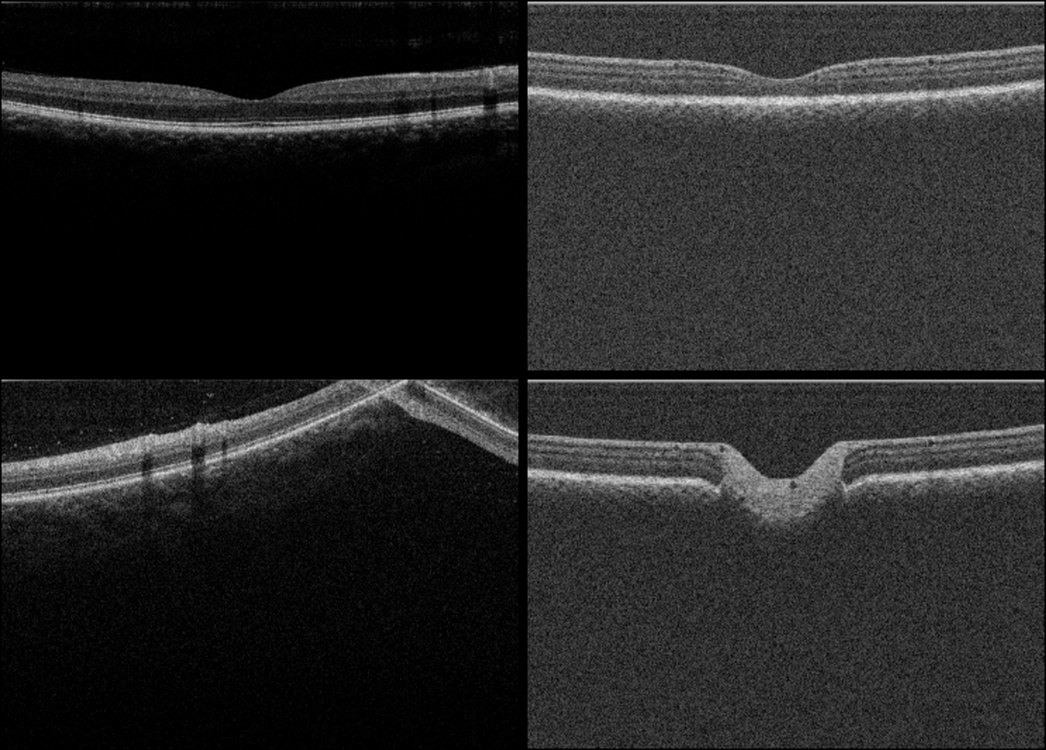
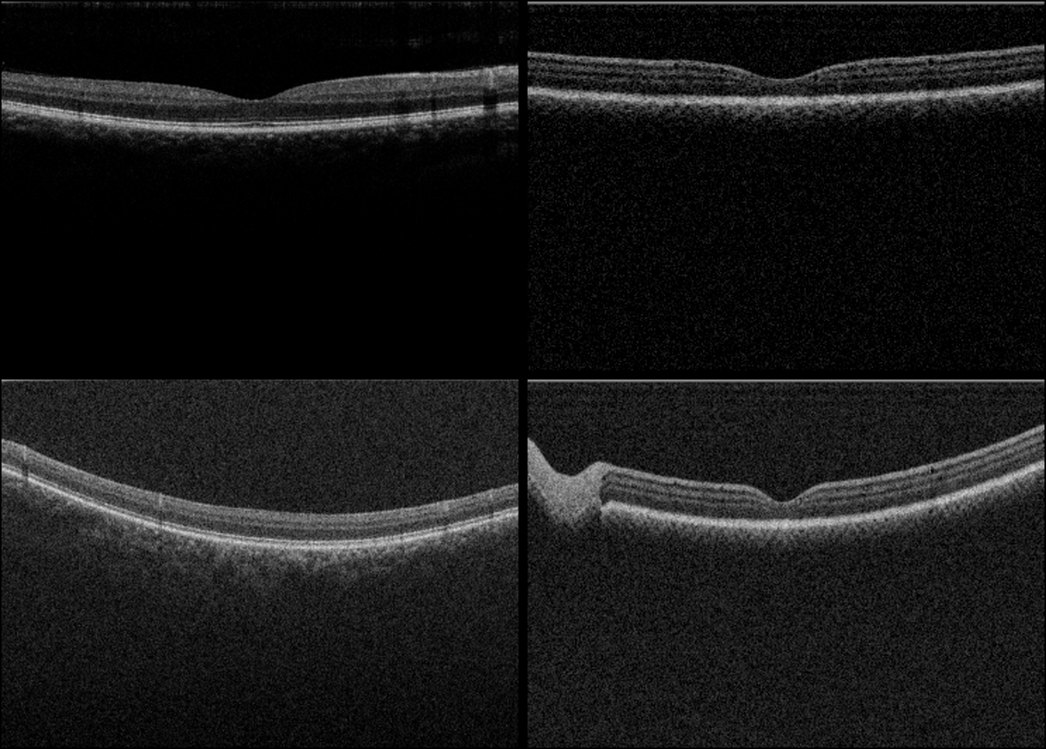
v0.21: portal power overlays out of the filtered menu bar, retimed tracking sequence, matched simulator contrast, text fitting

diff --git a/app/components/ProjectsWindow.tsx b/app/components/ProjectsWindow.tsx
@@ -58,7 +58,7 @@ function DenoiseHero() {
 }
 
 /* The tracking hero.
-   Twenty-four consecutive frames from one acquisition, each a composite of
+   Thirty consecutive frames from one acquisition, each a composite of
    the surgical microscope view, the en face reflectometry frame and the
    tracked OCT volume, recomposed side by side from the source video. They
    are temporally correlated by construction: every column of the sprite is
@@ -66,32 +66,33 @@ function DenoiseHero() {
    microscope is a top-down 2D view and cannot show what the instrument is
    doing to the tissue underneath; the volume can.
 
-   Twenty-four frames sampled over an eight-second window: ten frames spread
-   across the whole clip read as a slideshow, because smoothness comes from
-   how little moves between frames, not from playback rate alone.
+   Thirty frames sampled from a 2.5s window and played back over 2.5s, so the
+   motion runs at real speed at 12fps. Only one of the two volume viewpoints
+   is kept: the second was another angle on the same instant, and dropping it
+   gives the microscope and en face panels the width they need.
 
-   Stepped with a transform on a 2400%-wide strip rather than an animated
+   Stepped with a transform on a 3000%-wide strip rather than an animated
    image format, so prefers-reduced-motion can actually stop it. */
 function TrackingHero() {
   return (
     <figure className="denoise-figure">
-      <div className="seq" aria-label="Twenty-four consecutive frames showing the microscope view, the en face frame and the tracked OCT volume at the same instants">
+      <div className="seq" aria-label="Thirty consecutive frames showing the microscope view, the en face frame and the tracked OCT volume at the same instants">
         {/* eslint-disable-next-line @next/next/no-img-element */}
         <img
           className="seq-strip"
           src="/track-seq.webp"
-          alt="Twenty-four consecutive time points of an instrument at the eye surface, each showing the surgical microscope view, the en face reflectometry frame, and the tracked OCT volume"
-          width={14136}
+          alt="Thirty consecutive time points of an instrument at the eye surface, each showing the surgical microscope view, the en face reflectometry frame, and the tracked OCT volume"
+          width={15810}
           height={300}
         />
       </div>
       <div className="seq-labels" aria-hidden="true">
         <span style={{ flex: "300 1 0" }}>microscope</span>
         <span style={{ flex: "77 1 0" }}>en face</span>
-        <span className="seq-label-accent" style={{ flex: "212 1 0" }}>tracked OCT volume</span>
+        <span className="seq-label-accent" style={{ flex: "150 1 0" }}>tracked OCT volume</span>
       </div>
       <figcaption>
-        Twenty-four consecutive time points from one acquisition, each frame the same
+        Thirty consecutive time points from one acquisition, each frame the same
         instant three ways, so the panels are correlated rather than merely adjacent.
         The microscope view is top-down and 2D and cannot show what the instrument is
         doing below the surface, which is what the <strong>tracked volume</strong>
@@ -159,7 +160,13 @@ function SpectralHero() {
 /* The simulator's own validation: real device B-scans beside simulated ones
    at matched display contrast. This is the only claim that matters for a
    forward model, so it leads the project rather than sitting under the
-   schematic. Two anatomies, because matching one is luck. */
+   schematic. Two fields of view, because matching one is luck.
+
+   The simulated panels are put through a display window matched to the
+   device's. Raw, the sim reads as noise-dominated, but that is display
+   processing rather than physics: measured, the sim background sat at 40-55
+   where the device sat at 0-24. The optic disc row was dropped because the
+   real frame in it wraps at DC. */
 function SimulatorHero() {
   return (
     <figure className="denoise-figure">
@@ -171,19 +178,21 @@ function SimulatorHero() {
         {/* eslint-disable-next-line @next/next/no-img-element */}
         <img
           src="/sim-real.jpg"
-          alt="Two rows comparing real device B-scans on the left with simulated B-scans on the right, a macula and an optic disc, at matched display contrast."
+          alt="Two rows comparing real device B-scans on the left with simulated B-scans on the right, a 6 mm macula and a 12 by 9 mm wide field, at matched display contrast."
           width={1046}
-          height={750}
+          height={749}
           loading="lazy"
           decoding="async"
         />
       </div>
       <figcaption>
-        Real device acquisitions beside synthetic ones at{" "}
-        <strong>matched display contrast</strong>, macula above and optic disc
-        below. Layer ordering, speckle statistics and depth falloff come out of the
-        forward model rather than being tuned to match, which is the only test a
-        physics simulator can meaningfully pass.
+        Real device acquisitions beside synthetic ones, a 6 mm macula above and a
+        12x9 mm wide field below. The two pipelines apply different display
+        processing, so the simulated panels are shown through a{" "}
+        <strong>display window matched to the device&rsquo;s</strong>; the underlying
+        layer ordering, speckle statistics and depth falloff come out of the forward
+        model rather than being tuned to match, which is the only test a physics
+        simulator can meaningfully pass.
       </figcaption>
     </figure>
   );

diff --git a/app/components/PowerMenu.tsx b/app/components/PowerMenu.tsx
@@ -1,6 +1,7 @@
 "use client";
 
 import { useEffect, useRef, useState } from "react";
+import { createPortal } from "react-dom";
 
 /**
  * PowerMenu: the power glyph in the menu bar, made to mean something.
@@ -13,6 +14,21 @@ import { useEffect, useRef, useState } from "react";
  * button, which is exactly the deal a real machine offers.
  *
  * Escape and a click outside both close the menu; sleep wakes on any input.
+ *
+ * ⚠ The two full-screen overlays are rendered through a PORTAL to
+ * document.body, and that is load-bearing rather than tidiness. `.menubar`
+ * carries `backdrop-filter` for its glass effect, and a filtered element
+ * becomes the containing block for `position: fixed` DESCENDANTS. Rendered
+ * in place, `inset: 0` therefore resolved against a 30px-tall bar: sleep
+ * showed as a black strip at the top of the screen and shut down put its
+ * power button up there with it. Portalling to the body means no ancestor
+ * can capture them, whatever styles it grows later.
+ *
+ * Headless Chromium does NOT reproduce this, because it skips
+ * backdrop-filter compositing and so never creates the containing block.
+ * Two rounds of automated checks passed while a real phone kept failing.
+ * Measure fixed overlays against the VIEWPORT, and do not trust headless
+ * for anything that depends on filters or compositing.
  */
 
 type Mode = null | "sleep" | "off";
@@ -20,7 +36,10 @@ type Mode = null | "sleep" | "off";
 export default function PowerMenu() {
   const [open, setOpen] = useState(false);
   const [mode, setMode] = useState<Mode>(null);
+  const [mounted, setMounted] = useState(false);
   const wrap = useRef<HTMLDivElement | null>(null);
+
+  useEffect(() => setMounted(true), []);
 
   /* Close on outside click or Escape, the two things a menu must honour.
      Armed on a delay for the same reason as the sleep veil: the tap that
@@ -128,28 +147,32 @@ export default function PowerMenu() {
         )}
       </div>
 
-      {mode === "sleep" && (
-        <div
-          className="sleep-veil"
-          role="presentation"
-          onPointerUp={() => setMode(null)}
-        >
-          <p>Sleeping. Tap anywhere to wake.</p>
-        </div>
-      )}
+      {mounted && mode === "sleep" &&
+        createPortal(
+          <div
+            className="sleep-veil"
+            role="presentation"
+            onPointerUp={() => setMode(null)}
+          >
+            <p>Sleeping. Tap anywhere to wake.</p>
+          </div>,
+          document.body
+        )}
 
-      {mode === "off" && (
-        <div className="power-off" role="dialog" aria-label="Powered off">
-          <p className="power-off-line">It is now safe to close this tab.</p>
-          <button className="power-on" onPointerUp={powerOn} onClick={powerOn} aria-label="Power on">
-            <svg viewBox="0 0 24 24" fill="none" stroke="currentColor" strokeWidth="2.2" strokeLinecap="round">
-              <path d="M12 3v8" />
-              <path d="M6.2 6.2a8.2 8.2 0 1 0 11.6 0" />
-            </svg>
-          </button>
-          <p className="power-off-hint">power on</p>
-        </div>
-      )}
+      {mounted && mode === "off" &&
+        createPortal(
+          <div className="power-off" role="dialog" aria-label="Powered off">
+            <p className="power-off-line">It is now safe to close this tab.</p>
+            <button className="power-on" onPointerUp={powerOn} onClick={powerOn} aria-label="Power on">
+              <svg viewBox="0 0 24 24" fill="none" stroke="currentColor" strokeWidth="2.2" strokeLinecap="round">
+                <path d="M12 3v8" />
+                <path d="M6.2 6.2a8.2 8.2 0 1 0 11.6 0" />
+              </svg>
+            </button>
+            <p className="power-off-hint">power on</p>
+          </div>,
+          document.body
+        )}
     </>
   );
 }

diff --git a/app/components/SimulatorSchematic.tsx b/app/components/SimulatorSchematic.tsx
@@ -146,12 +146,18 @@ function ForwardPanel() {
 
 /* ---------- panel 2: what the physics buys you ---------- */
 
+/* Values are kept short enough to fit CHIP_W minus its padding. Measured, not
+   eyeballed: three of the original strings ran past the chip edge, the worst by
+   16 units. If you lengthen one, re-measure the text bbox against the rect. */
+const CHIP_W = 116;
+const CHIP_GAP = 8;
+
 const EFFECTS = [
-  { k: "source", v: "bandwidth sets axial resolution" },
-  { k: "falloff", v: "sensitivity roll-off with depth" },
-  { k: "dispersion", v: "axial stretch, signed chirp" },
-  { k: "T_int", v: "SNR up, fringe washout up" },
-  { k: "motion", v: "drift, pulse, microsaccade" },
+  { k: "source", v: "sets axial resolution" },
+  { k: "falloff", v: "roll-off with depth" },
+  { k: "dispersion", v: "stretch, signed chirp" },
+  { k: "T_int", v: "SNR up, washout up" },
+  { k: "motion", v: "drift, pulse, saccade" },
   { k: "noise", v: "shot, RIN, read floor" },
 ];
 
@@ -166,11 +172,11 @@ function EffectsPanel() {
       {EFFECTS.map((e, i) => {
         const col = i % 3;
         const row = Math.floor(i / 3);
-        const x = 16 + col * 118;
+        const x = 16 + col * (CHIP_W + CHIP_GAP);
         const y = 20 + row * 40;
         return (
           <g key={e.k}>
-            <rect className="sim-chip" x={x} y={y} width={108} height={30} rx={4} />
+            <rect className="sim-chip" x={x} y={y} width={CHIP_W} height={30} rx={4} />
             <text className="sim-chip-k" x={x + 8} y={y + 13}>
               {e.k}
             </text>
@@ -182,9 +188,9 @@ function EffectsPanel() {
       })}
 
       {/* they all feed one model */}
-      <path className="sim-feed" d="M70 100 C70 118 200 118 200 124" />
-      <path className="sim-feed" d="M188 100 C188 116 200 118 200 124" />
-      <path className="sim-feed" d="M306 100 C306 118 200 118 200 124" />
+      <path className="sim-feed" d="M74 100 C74 118 200 118 200 124" />
+      <path className="sim-feed" d="M198 100 C198 116 200 118 200 124" />
+      <path className="sim-feed" d="M322 100 C322 118 200 118 200 124" />
 
       <rect className="sim-core" x={126} y={124} width={148} height={30} rx={5} />
       <text className="sim-core-t" x={200} y={143} textAnchor="middle">

diff --git a/app/globals.css b/app/globals.css
@@ -2624,6 +2624,8 @@ html.booted .boot-overlay {
 .sleep-veil {
   position: fixed;
   inset: 0;
+  width: 100vw;
+  height: 100dvh;
   z-index: 900;
   display: flex;
   align-items: flex-end;
@@ -2644,6 +2646,8 @@ html.booted .boot-overlay {
 .power-off {
   position: fixed;
   inset: 0;
+  width: 100vw;
+  height: 100dvh;
   z-index: 1000;
   display: flex;
   flex-direction: column;
@@ -2723,25 +2727,31 @@ html.booted .boot-overlay {
 .seq {
   position: relative;
   width: 100%;
-  aspect-ratio: 589 / 300;
+  aspect-ratio: 527 / 300;
   border-radius: 10px;
   overflow: hidden;
   border: 1px solid var(--hairline);
   background: #080706;
 }
 
-/* Twenty-four frames side by side, so the strip is 2400% of the container and
-   one translateX(-100%) walks the loop. Stepping a transform rather than using
-   an animated image format is what lets prefers-reduced-motion stop it. */
+/* Thirty frames side by side, so the strip is 3000% of the container and one
+   translateX(-100%) walks the loop. Stepping a transform rather than using an
+   animated image format is what lets prefers-reduced-motion stop it.
+
+   Timing is deliberate: 30 frames sampled from a 2.5s window and played back
+   over 2.5s, so the motion runs at real speed at 12fps. The previous pass
+   sampled 8s into a 4s loop, which is why it read as sped up. Frame COUNT
+   buys smoothness; matching the loop to the sampled window is what keeps the
+   speed honest. */
 .seq-strip {
   position: absolute;
   inset: 0 auto auto 0;
-  width: 2400%;
+  width: 3000%;
   max-width: none;
   height: 100%;
   object-fit: fill;
   image-rendering: auto;
-  animation: seq-play 4s steps(24) infinite;
+  animation: seq-play 2.5s steps(30) infinite;
 }
 
 @keyframes seq-play {

diff --git a/app/components/SelfFusionSchematic.tsx b/app/components/SelfFusionSchematic.tsx
@@ -283,7 +283,9 @@ function NetworkPanel() {
         <rect className="sfs-in-front" x={6} y={mid(0) - 14} width={36} height={36} rx={2.5} />
       </g>
       <LayerStack x={11} y={mid(0) - 4} w={26} />
-      <text className="sfs-cap" x={28} y={mid(0) + 38} textAnchor="middle">
+      {/* Anchored at 32, not at the stack's own centre of 28: centred on 28 the
+          label ran 2.3 units past the left edge of the viewBox and clipped. */}
+      <text className="sfs-cap" x={32} y={mid(0) + 38} textAnchor="middle">
         3 raw frames
       </text>
       <text className="sfs-sub" x={28} y={mid(0) + 51} textAnchor="middle">

diff --git a/app/data/version.ts b/app/data/version.ts
@@ -10,7 +10,7 @@
  * Bump this IN THE SAME COMMIT as the release, so the running site always
  * reports the version it actually is.
  */
-export const TANGOS_VERSION = "0.20";
+export const TANGOS_VERSION = "0.21";
 
 /** Codename stays put unless the palette changes. */
 export const TANGOS_CODENAME = "warm graphite";
